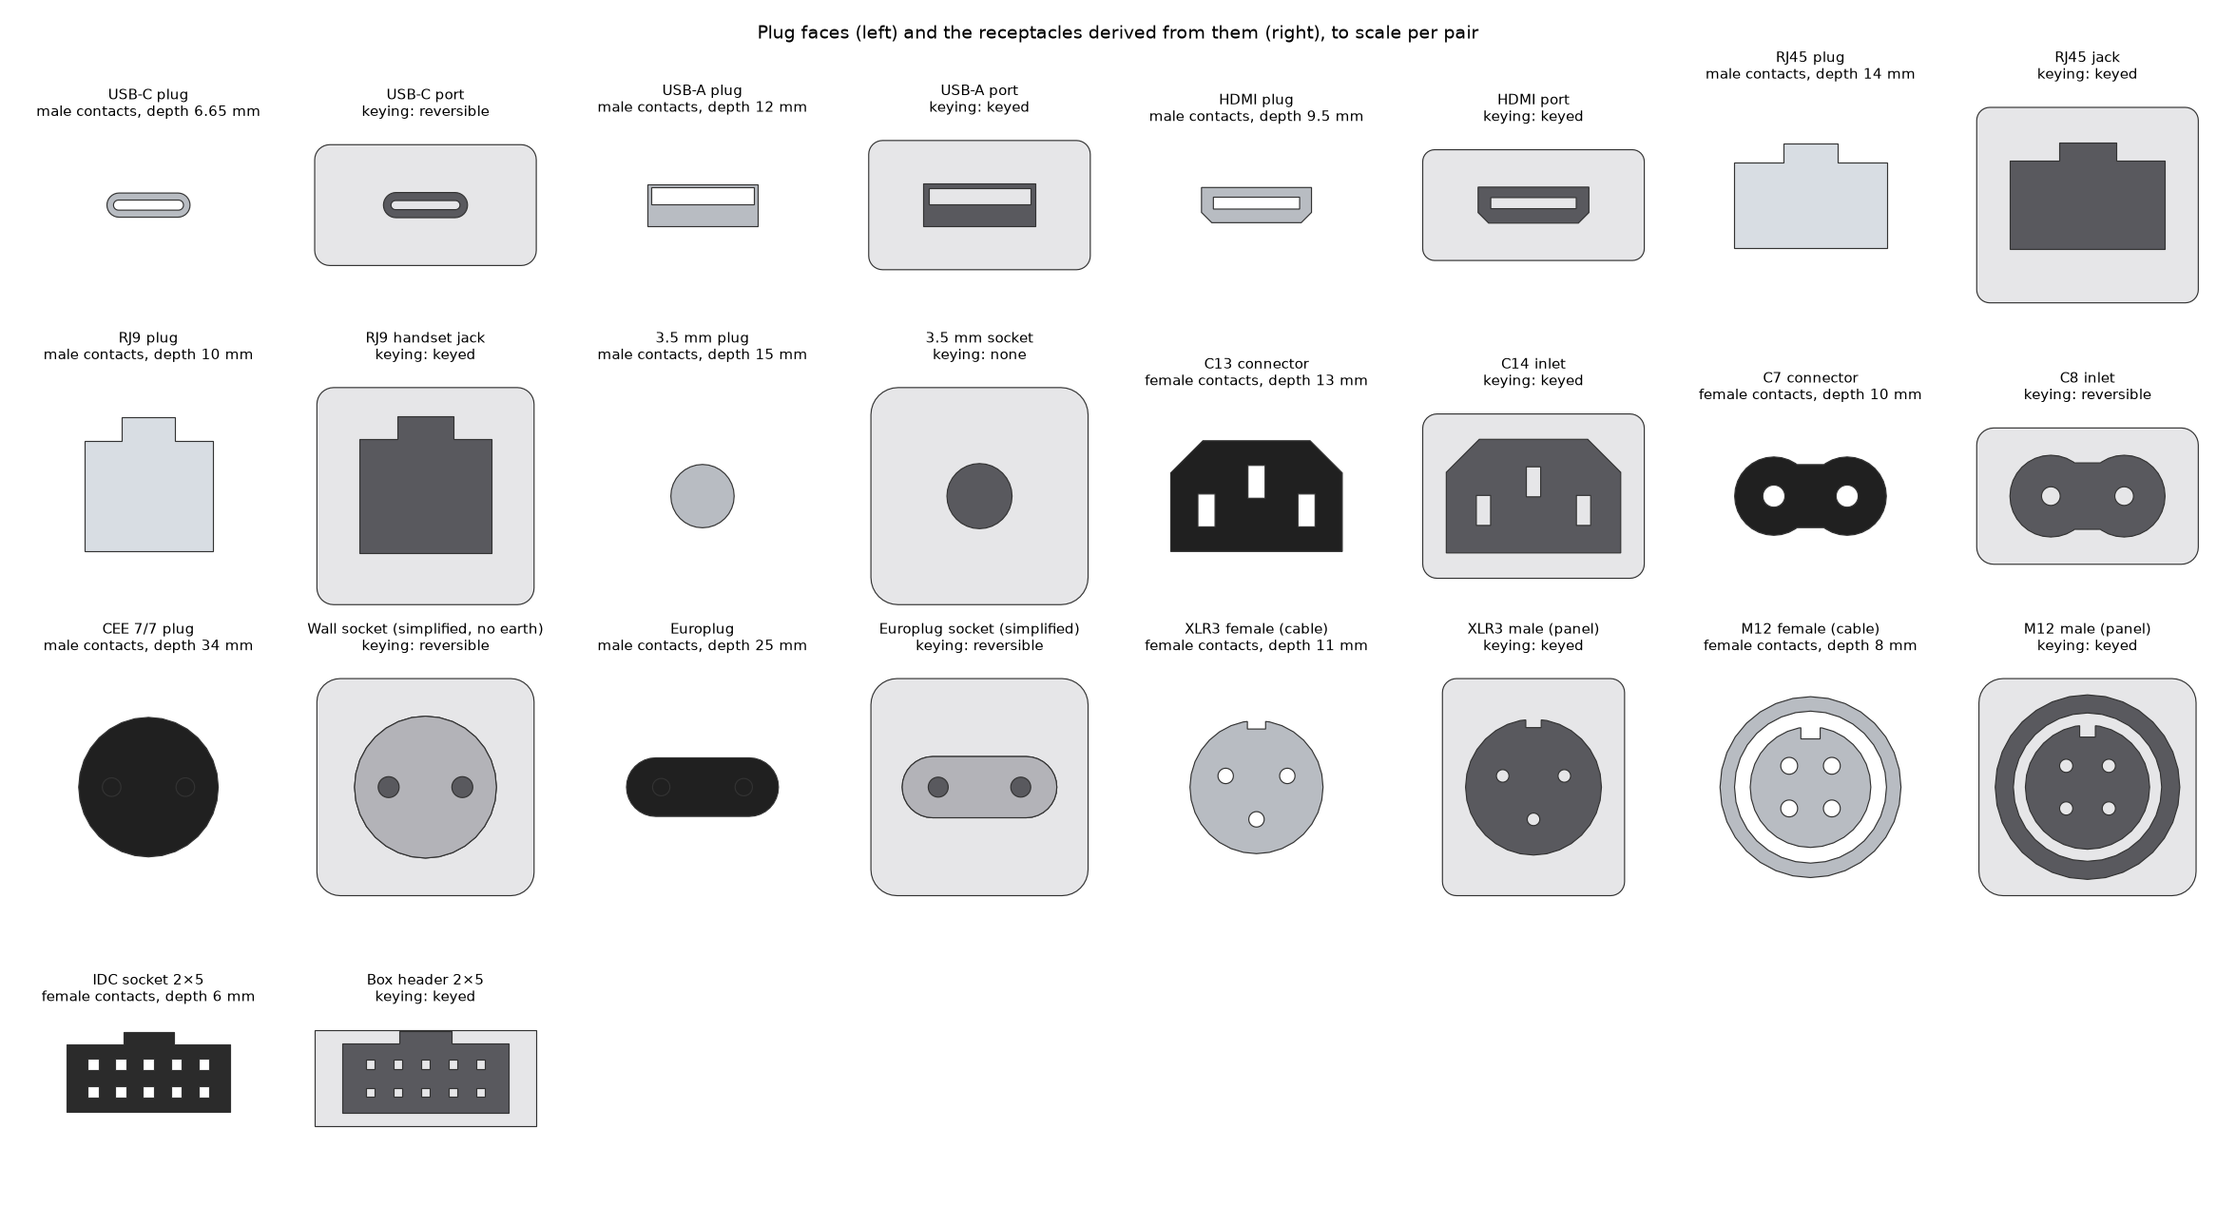
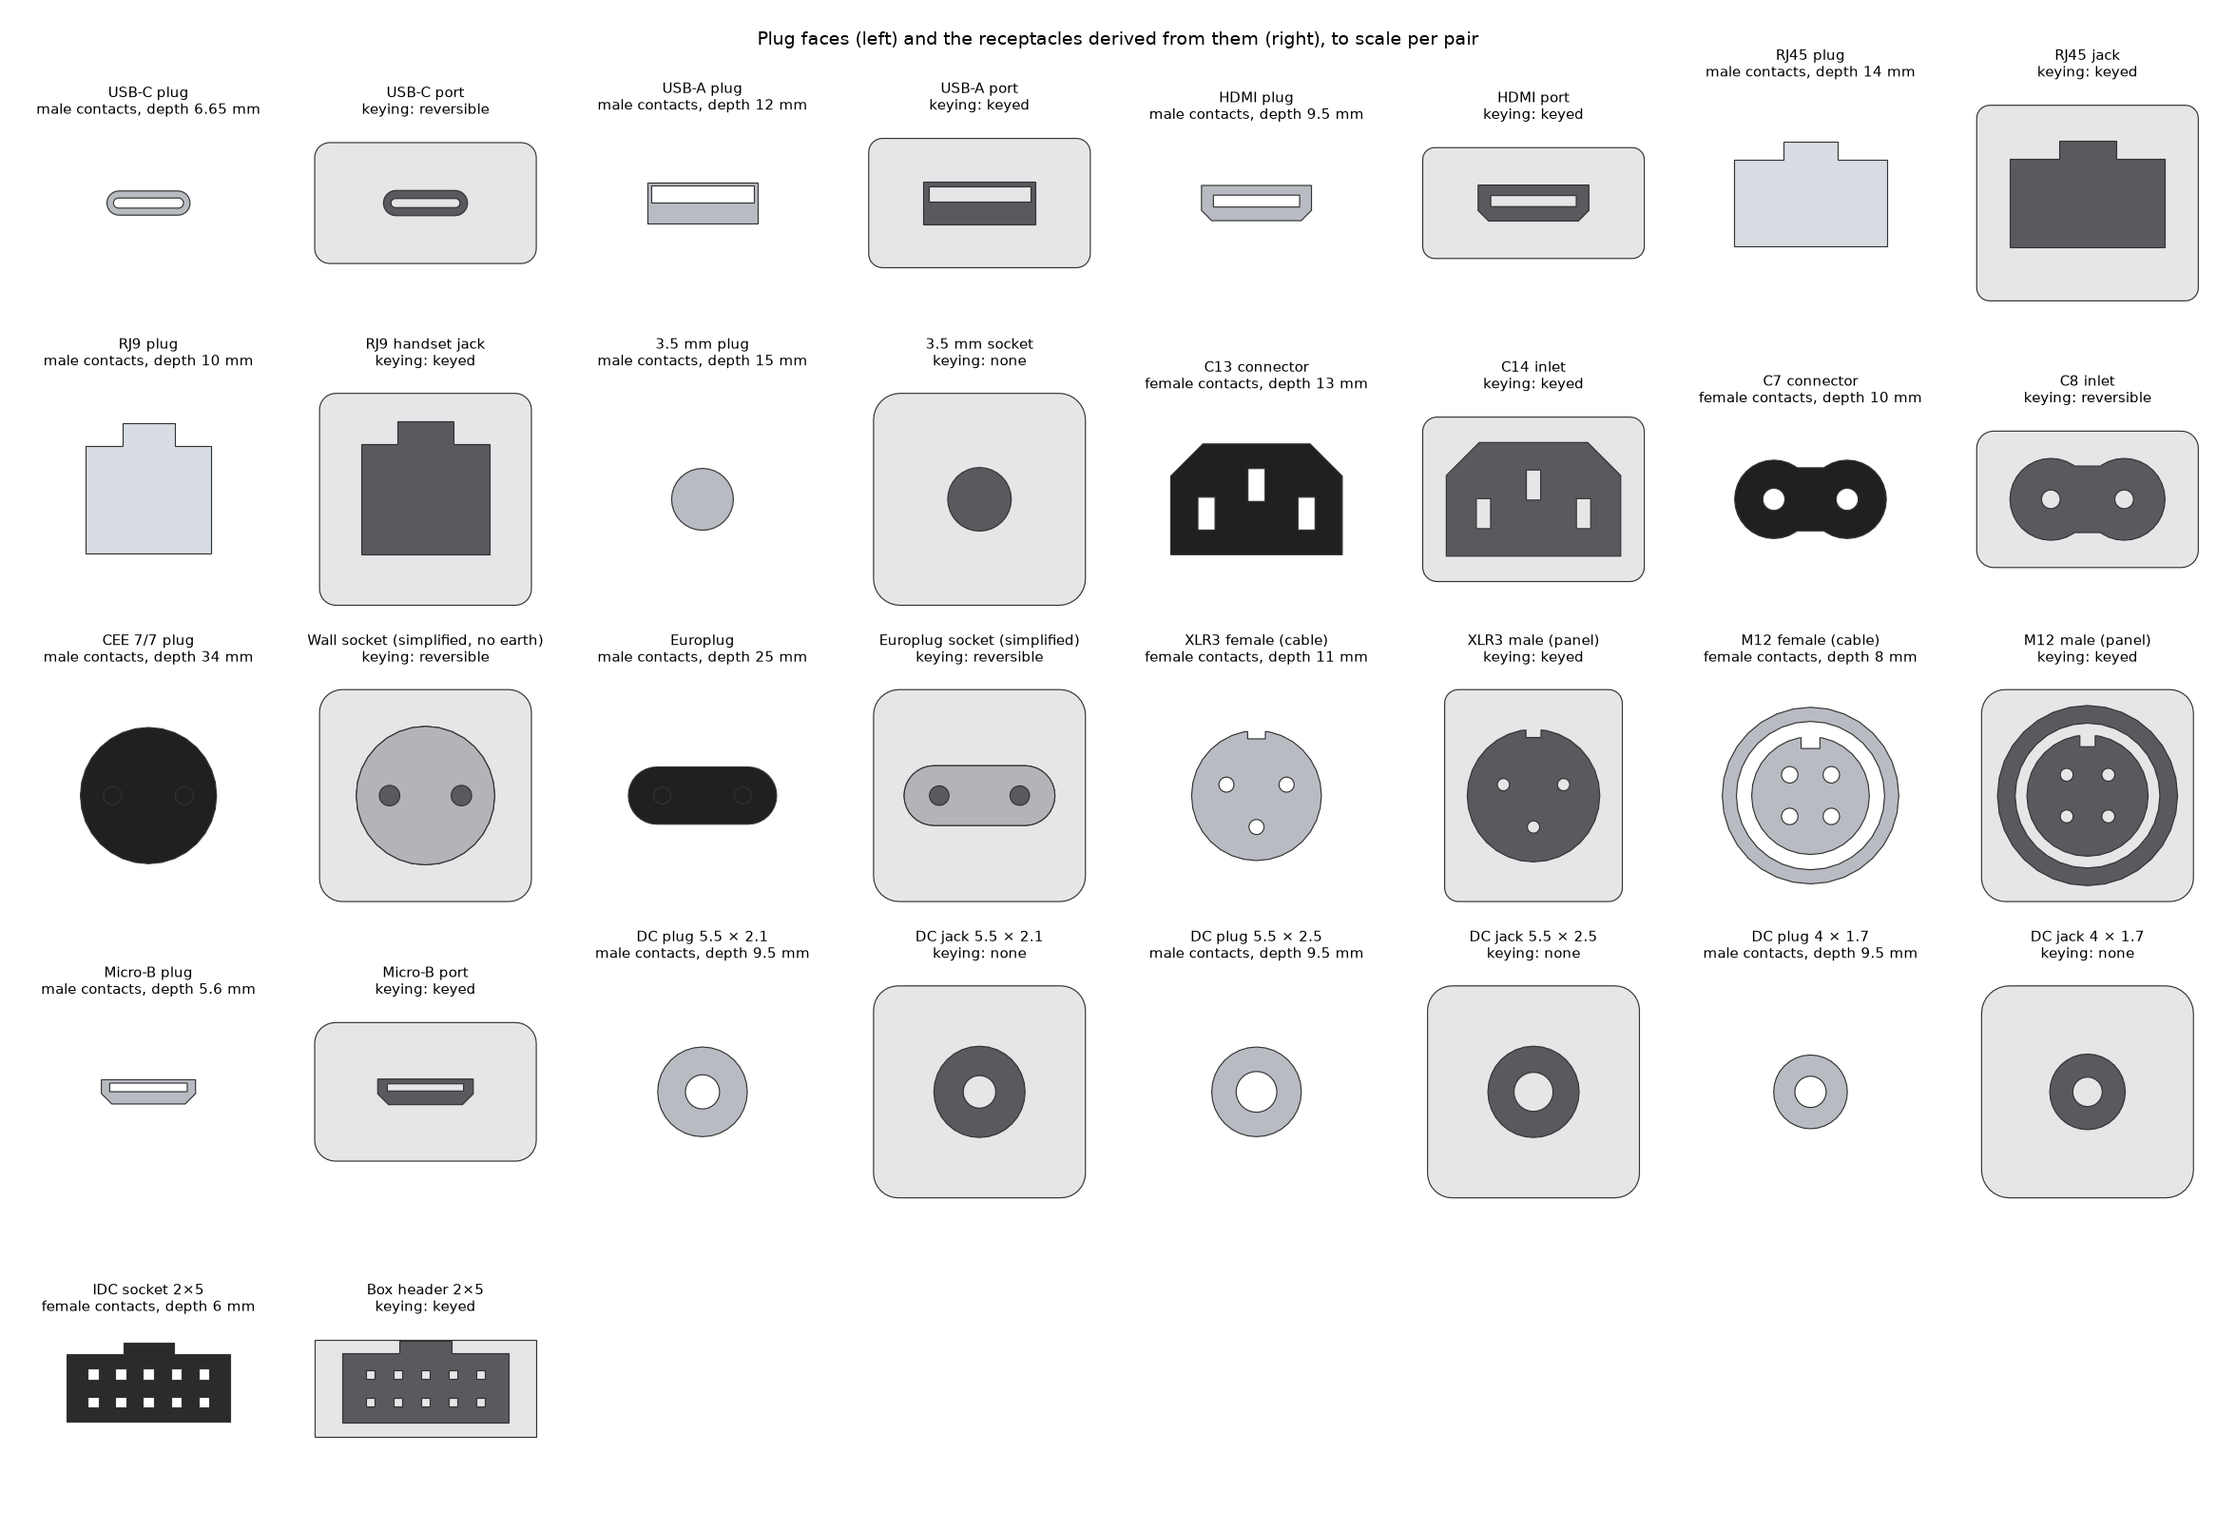
feat: DC barrel and USB Micro-B connectors
New connector families: USB Micro-B (keyed by its trapezoid shell) and
coaxial DC barrels 5.5 x 2.1, 5.5 x 2.5 and 4.0 x 1.7 mm, each with a
jack on a cable and a fixed jack derived from the plug (the centre pin
comes from the plug's bore). New presets dc_barrel and usb_micro.

fits() takes an optional socket of another family: a 5.5 x 2.5 plug
goes loosely onto a 5.5 x 2.1 jack, the reverse is stopped by the pin.

Claude-Session: https://claude.ai/code/session_011SKHgX3kzSwMGzHTuKSX34

diff --git a/src/filaire/connectors.py b/src/filaire/connectors.py
@@ -119,6 +119,38 @@ _M12_INSERT = _holes(
 _M12_NUT = g2.circle(15.0).difference(g2.circle(12.6))
 _IDC_HOLES = [g2.rect(1.0, 1.0, x, y) for x in (-5.08, -2.54, 0.0, 2.54, 5.08) for y in (-1.27, 1.27)]
 _IDC_SOCKET = _holes(g2.union(g2.rect(15.0, 6.2), g2.rect(4.6, 1.2, 0.0, 3.6)), *_IDC_HOLES)
+# Micro-B: trapezoid shell (chamfered lower corners), cavity for the receptacle's tongue near the top
+_MICRO_B_PLUG = g2.chamfered_rect(6.80, 1.75, bottom=0.75).difference(g2.rect(5.6, 0.62, 0.0, 0.32))
+
+
+def _barrel(key: str, od: float, bore: float, length: float, sizes_source: str, length_source: str):
+    """A coaxial DC plug: a sleeve of outer diameter od around a bore of diameter bore.
+
+    The derived jack gets its centre pin from the bore (bore minus twice the clearance), so a
+    plug with a smaller bore cannot go onto a thicker pin, while a larger bore fits loosely, as
+    on real 5.5 × 2.1 and 5.5 × 2.5 mm connectors.
+    """
+    return ConnectorSpec(
+        key=key,
+        label=f"DC barrel {od:g} × {bore:g} mm",
+        standard="IEC 60130-10" if od == 5.5 else "EIAJ RC-5320A",
+        gender="male",
+        keying="none",
+        layers=[Layer(0.0, length, g2.circle(od).difference(g2.circle(bore)))],
+        body=[(6.0, g2.circle(od + 2.5)), (16.0, g2.circle(od + 4.5))],
+        inline=(26.0, g2.circle(od + 5.5)),
+        panel=(4.0, g2.rrect(od + 7.5, od + 7.5, 1.5)),
+        clearance=0.05,
+        plug_name=f"DC plug {od:g} × {bore:g}",
+        inline_name=f"DC jack {od:g} × {bore:g} (extension)",
+        panel_name=f"DC jack {od:g} × {bore:g}",
+        shell=_METAL,
+        approximate=([] if length_source else [f"plug length {length:g}"]) + ["overmold and jack body"],
+        sources=[f"{od:g} × {bore:g} mm: {sizes_source}"] + ([length_source] if length_source else []),
+    )
+
+
+_BARREL_SOURCE = "https://en.wikipedia.org/wiki/Coaxial_power_connector"
 
 CONNECTORS: dict[str, ConnectorSpec] = {
     "usb_c": ConnectorSpec(
@@ -349,6 +381,37 @@ CONNECTORS: dict[str, ConnectorSpec] = {
         approximate=["insert Ø10", "key 1.6", "pins on Ø5", "nut Ø15 / bore Ø12.6"],
         sources=["thread M12 × 1 (IEC 61076-2-101, not consulted)"],
     ),
+    "usb_micro": ConnectorSpec(
+        key="usb_micro",
+        label="USB Micro-B",
+        standard="USB 2.0 Specification (Micro-B)",
+        gender="male",
+        keying="keyed",
+        layers=[Layer(0.0, 5.6, _MICRO_B_PLUG)],
+        body=[(16.0, g2.rrect(10.5, 6.5, 2.0))],
+        inline=None,
+        panel=(3.0, g2.rrect(16.0, 10.0, 1.5)),
+        clearance=0.05,
+        plug_name="Micro-B plug",
+        panel_name="Micro-B port",
+        shell=_METAL,
+        approximate=[
+            "plug 6.80 × 1.75 with 0.75 chamfers",
+            "tongue cavity 5.6 × 0.62",
+            "insertion depth 5.6",
+        ],
+        sources=["receptacle opening 6.85 × 1.8: https://www.accesscomms.com.au/usb-connector-dimensions/"],
+    ),
+    "dc5521": _barrel("dc5521", 5.5, 2.1, 9.5, f"IEC 60130-10 Type A, {_BARREL_SOURCE}", ""),
+    "dc5525": _barrel("dc5525", 5.5, 2.5, 9.5, f"IEC 60130-10 Type A, {_BARREL_SOURCE}", ""),
+    "dc4017": _barrel(
+        "dc4017",
+        4.0,
+        1.7,
+        9.5,
+        f"EIAJ-02, {_BARREL_SOURCE}",
+        f"barrel length 9.5 (EIAJ-02): {_BARREL_SOURCE}",
+    ),
     "idc10": ConnectorSpec(
         key="idc10",
         label="IDC 2 × 5, 2.54 mm",
@@ -445,18 +508,27 @@ def mass_of(parts: list[Part], density: float) -> dict:
     return mass_properties(part_mesh(parts), density)
 
 
-def fits(spec: ConnectorSpec, angle_deg: float, mount: str = "panel", tol: float = 1e-9) -> bool:
+def fits(
+    spec: ConnectorSpec,
+    angle_deg: float,
+    mount: str = "panel",
+    tol: float = 1e-9,
+    socket: ConnectorSpec | None = None,
+) -> bool:
     """Does the plug, turned by angle about the insertion axis, enter the receptacle fully?
 
     Plane test, layer by layer: the turned plug cross-section must not overlap
-    the receptacle's solid at any depth it goes through.
+    the receptacle's solid at any depth it goes through. `socket` tests the plug
+    of `spec` against the receptacle of another family (a 5.5 × 2.5 plug in a
+    5.5 × 2.1 jack); by default the receptacle is the plug's own.
     """
-    outline = spec.panel[1] if mount == "panel" else spec.inline[1]
-    solids = [outline.difference(_cavity(other.region, spec.clearance)) for other in spec.layers]
+    socket = socket or spec
+    outline = socket.panel[1] if mount == "panel" else socket.inline[1]
+    solids = [outline.difference(_cavity(other.region, socket.clearance)) for other in socket.layers]
     for layer in spec.layers:
         turned = g2.rotate(layer.region, angle_deg)
         # every receptacle layer the turned plug layer passes through on its way in
-        for other, solid in zip(spec.layers, solids, strict=True):
+        for other, solid in zip(socket.layers, solids, strict=True):
             if other.t1 <= layer.t0 + 1e-12:
                 continue
             if turned.intersection(solid).area > tol:

diff --git a/src/filaire/catalog.py b/src/filaire/catalog.py
@@ -81,6 +81,24 @@ PRESETS = {
         "layouts": {"slack": 0.7, "coil": 0.15, "straight": 0.15},
         "ends": {"a": {"c7_plug": 1.0}, "b": {"cee716_plug": 0.85, "stripped": 0.15}},
     },
+    "dc_barrel": {
+        "category": "Power",
+        "label": "DC power cord, coaxial barrel plug",
+        "profile": ("figure8", 2.4),
+        "conductors": ["#c0392b", "#1c1c1c"],
+        "jacket": "pvc",
+        "colors": _BLACKS + ["#f0f0ee"],
+        "lengths": {1.0: 0.3, 1.5: 0.4, 1.8: 0.3},
+        "tolerance": 0.01,
+        "youngs_modulus": (50.0, 100.0),
+        "linear_density": (18.0, 28.0),
+        "layouts": {"slack": 0.6, "coil": 0.25, "straight": 0.15},
+        # the adapter side (power brick) is not modelled: a stripped or cut end, or an extension jack
+        "ends": {
+            "a": {"dc5521_plug": 0.5, "dc5525_plug": 0.3, "dc4017_plug": 0.2},
+            "b": {"stripped": 0.5, "cut": 0.2, "dc5521_inline": 0.3},
+        },
+    },
     # -------------------------------------------------------------- Data
     "usb_c": {
         "category": "Data",
@@ -95,6 +113,20 @@ PRESETS = {
         "linear_density": (30.0, 45.0),
         "layouts": {"slack": 0.6, "coil": 0.2, "straight": 0.2},
         "ends": {"a": {"usb_c_plug": 1.0}, "b": {"usb_c_plug": 0.8, "usb_c_inline": 0.2}},
+    },
+    "usb_micro": {
+        "category": "Data",
+        "label": "USB-A to Micro-B",
+        "profile": ("round", 3.5),
+        "conductors": ["#c0392b", "#1c1c1c", "#2e8b3a", "#f2f2f2"],
+        "jacket": "pvc",
+        "colors": _BLACKS + ["#f0f0ee"],
+        "lengths": {0.5: 0.3, 1.0: 0.5, 2.0: 0.2},
+        "tolerance": 0.01,
+        "youngs_modulus": (40.0, 90.0),
+        "linear_density": (20.0, 35.0),
+        "layouts": {"slack": 0.6, "coil": 0.2, "straight": 0.2},
+        "ends": {"a": {"usb_a_plug": 1.0}, "b": {"usb_micro_plug": 1.0}},
     },
     "usb_a_to_c": {
         "category": "Data",

diff --git a/tests/test_connectors.py b/tests/test_connectors.py
@@ -42,3 +42,23 @@ def test_female_contacts_and_roles():
     assert CONNECTORS["c13"].gender == "female"
     assert CONNECTORS["usb_c"].gender == "male"
     assert CONNECTORS["xlr3"].inline is not None  # the male XLR on a cable
+
+
+def test_barrel_plugs_only_fit_compatible_jacks():
+    from filaire.connectors import fits
+
+    c = CONNECTORS
+    assert fits(c["dc5521"], 0) and fits(c["dc5525"], 0)
+    # a 2.5 mm bore goes loosely over the 2.1 jack's pin, as on real connectors...
+    assert fits(c["dc5525"], 0, socket=c["dc5521"])
+    # ...but a 2.1 mm bore cannot go over the 2.5 jack's thicker pin
+    assert not fits(c["dc5521"], 0, socket=c["dc5525"])
+    assert not fits(c["dc4017"], 0, socket=c["dc5521"])
+    assert not fits(c["dc5521"], 0, socket=c["dc4017"])
+
+
+def test_micro_b_is_keyed_by_its_trapezoid():
+    from filaire.connectors import fits
+
+    spec = CONNECTORS["usb_micro"]
+    assert fits(spec, 0) and not fits(spec, 180)

diff --git a/README.md b/README.md
@@ -15,7 +15,7 @@
 
 Filaire generates cables of standard types (power cords, USB, Ethernet,
 HDMI, audio, microphone, speaker wire, sensor, ribbon and coiled handset
-cords) with their real connectors, **male and female**, or with cut or
+cords, DC barrel and Micro-USB) with their real connectors, **male and female**, or with cut or
 stripped ends, and exports them to **OpenUSD** as physics-ready assets: a
 chain of rigid segments with `UsdPhysics` joints whose springs come from
 the cable's bending and torsional stiffness. Every connector comes with the
@@ -47,7 +47,7 @@ files into Blender and rendered with Cycles.*
   slack random curve or coiled on the floor.
 - Puts on **each end, independently**, a connector plug, a receptacle on a
   cable (the female end of an extension or a coupler), a clean cut or a
-  stripped end with the cores out: 13 connector families, 21 end variants,
+  stripped end with the cores out: 17 connector families, 28 end variants,
   any of them on any cable.
 - Models the cable as a **Kirchhoff rod**: rigid segments of 1.5 cable
   widths, joints with twist and bending springs `G·J / L` and `E·I / L`
@@ -131,8 +131,10 @@ other ends…).
 |---|---|---|---|---|
 | Power | `power_c13` | round Ø6.4 mm, 3 cores | C13 | CEE 7/7 plug, C14 (extension), stripped |
 | | `power_c7` | figure-8, 2 × Ø3.4 mm | C7 | Europlug, stripped |
+| | `dc_barrel` | figure-8, 2 × Ø2.4 mm | DC plug 5.5 × 2.1, 5.5 × 2.5 or 4.0 × 1.7 | stripped, cut, DC jack (extension) |
 | Data | `usb_c` | round Ø4.0 mm | USB-C plug | USB-C plug, USB-C receptacle (extension) |
 | | `usb_a_to_c` | round Ø3.8 mm | USB-A plug | USB-C plug |
+| | `usb_micro` | round Ø3.5 mm | USB-A plug | Micro-B plug |
 | | `ethernet` | round Ø6.0 mm, 4 pairs | RJ45 plug | RJ45 plug, RJ45 coupler |
 | | `hdmi` | round Ø7.0 mm | HDMI plug | HDMI plug, HDMI receptacle (extension) |
 | Audio | `audio_jack` | round Ø3.5 mm | 3.5 mm plug | 3.5 mm plug, 3.5 mm socket (extension) |
@@ -158,6 +160,7 @@ fixed receptacles derived from them (`sockets.usdc`), rendered in Blender.*
 |---|---|---|---|---|---|---|
 | `usb_c` | USB-C plug | male | USB-C receptacle | USB-C port | reversible | 6.65 mm |
 | `usb_a` | USB-A plug | male | | USB-A port | keyed | 12 mm |
+| `usb_micro` | Micro-B plug | male | | Micro-B port | keyed | 5.6 mm |
 | `hdmi_a` | HDMI plug | male | HDMI receptacle | HDMI port | keyed | 9.5 mm |
 | `rj45` | RJ45 plug | male | RJ45 coupler | RJ45 jack | keyed | 14 mm |
 | `rj9` | RJ9 plug | male | | RJ9 handset jack | keyed | 10 mm |
@@ -169,6 +172,7 @@ fixed receptacles derived from them (`sockets.usdc`), rendered in Blender.*
 | `xlr3` | XLR3 female | **female** | XLR3 male | XLR3 male (panel) | keyed | 11 mm |
 | `m12a` | M12 A-coded female | **female** | | M12 male (panel) | keyed | 8 mm |
 | `idc10` | IDC socket 2 × 5 | **female** | | box header 2 × 5 | keyed | 6 mm |
+| `dc5521`, `dc5525`, `dc4017` | DC plug 5.5 × 2.1, 5.5 × 2.5, 4.0 × 1.7 mm | male | DC jack | DC jack | none | 9.5 mm |
 
 **Gender and role are kept apart.** *Gender* is the contact gender of the
 standard; *role* is geometric: the plug enters, the receptacle receives. An
@@ -184,6 +188,12 @@ or tongue, the plug's key becomes the keyway, and the two always mate. The
 keying is then *found* by turning the plug in 15° steps and testing for
 overlap, and a test checks it against the standard's.
 
+The same test answers which plug goes into which receptacle across families
+(`fits(plug, angle, socket=other)`). For the DC barrels it gives the real
+behaviour: the derived jacks get a centre pin from the plug's bore, so a
+5.5 × 2.5 mm plug goes loosely onto a 5.5 × 2.1 mm jack, while a 5.5 × 2.1 mm
+plug is stopped by the thicker pin of a 5.5 × 2.5 mm jack.
+
 ![Plug faces and the receptacles derived from them](docs/images/connectors.png)
 
 *`filaire connectors`: the plug seen from its tip (left) and the fixed
@@ -193,8 +203,9 @@ light grey.*
 Dimensions come from published figures where they could be found (USB-C
 receptacle opening and insertion length, HDMI plug and receptacle, RJ45 and
 RJ9 widths and heights, 3.5 mm diameter and length, CEE 7 pins and recess
-depth, IEC 60320 pin spacing); the others (XLR, M12, IDC, C13 face, inner
-cavities, overmolds) are **approximate** and marked so in
+depth, IEC 60320 pin spacing, Micro-B receptacle opening, DC barrel diameters
+and the 4.0 × 1.7 mm barrel length); the others (XLR, M12, IDC, C13 face,
+Micro-B chamfers, 5.5 mm barrel length, inner cavities, overmolds) are **approximate** and marked so in
 [`connectors.py`](src/filaire/connectors.py), each with its sources. The
 standards themselves were not consulted. Connectors are simplified: no
 latches that move, no threads, no contacts inside the holes, no logos.
@@ -312,8 +323,10 @@ to rest. Simulated in MuJoCo from the OpenUSD files (rest shape straight,
 |---|---|---|---|---|---|---|
 | `power_c13` | 104 | 0.0049–0.0073 | 119–187 | 3/3 (0.004 m/s, 0.10 mm) | sag −0.8 % | C13 panel + inline, CEE 7/7 ✓ |
 | `power_c7` | 98 | 0.00066–0.00098 | 49–67 | 3/3 (0.002 m/s, 0.06 mm) | sag −0.8 % | C7, Europlug ✓ |
+| `dc_barrel` | 139 | 0.00016–0.00026 | 30–33 | 3/3 (0.012 m/s, 0.09 mm) | sag −0.8 % | three DC jacks ✓ |
 | `usb_c` | 167 | 0.00050–0.00080 | 46–50 | 3/3 (0.013 m/s, 0.18 mm) | sag −0.8 % | USB-C panel + inline ✓ |
 | `usb_a_to_c` | 175 | 0.00041–0.00065 | 43–46 | 3/3 (0.004 m/s, 0.18 mm) | sag −0.8 % | USB-A, USB-C ✓ |
+| `usb_micro` | 190 | 0.00029–0.00051 | 38–40 | 3/3 (0.004 m/s, 0.10 mm) | sag −0.8 % | USB-A, Micro-B ✓ |
 | `ethernet` | 111 | 0.0050–0.0072 | 61–70 | 3/3 (0.005 m/s, 0.07 mm) | sag −0.8 % | RJ45 panel + inline ✓ |
 | `hdmi` | 95 | 0.0094–0.0139 | 99–107 | 3/3 (0.005 m/s, 0.09 mm) | sag −0.8 % | HDMI panel + inline ✓ |
 | `audio_jack` | 190 | 0.00022–0.00036 | 20–22 | 3/3 (0.003 m/s, 0.13 mm) | sag −0.8 % | 3.5 mm panel + inline ✓ |
@@ -326,7 +339,7 @@ to rest. Simulated in MuJoCo from the OpenUSD files (rest shape straight,
 Every keyed connector was stopped at 90° and 180° (at most 12 % of its
 depth, the IDC socket's flat face entering a little before its key meets the
 header), every reversible one went in at 180°, the 3.5 mm jack at every
-angle. The sag is 0.8 % under the linear beam formula for every cable: the
+angle, like the DC barrels. The sag is 0.8 % under the linear beam formula for every cable: the
 geometric nonlinearity of a 10 % deflection, the same for all since the
 sample length is scaled to the stiffness. Generation takes 1–4 s per
 preset (3 cables), the checks 15–30 s (a minute for the coiled cords).

diff --git a/CHANGELOG.md b/CHANGELOG.md
@@ -6,6 +6,17 @@ and the project uses [Semantic Versioning](https://semver.org/).
 
 ## [Unreleased]
 
+### Added
+- Connector families: USB Micro-B (`usb_micro`, keyed by its trapezoid) and
+  coaxial DC barrels 5.5 × 2.1, 5.5 × 2.5 and 4.0 × 1.7 mm (`dc5521`,
+  `dc5525`, `dc4017`), each with a jack on a cable and a fixed jack: 17
+  families, 28 end variants.
+- Presets `dc_barrel` (DC power cord, figure-8) and `usb_micro` (USB-A to
+  Micro-B): 14 presets.
+- `fits(plug, angle, socket=other)` tests a plug against another family's
+  receptacle: a 5.5 × 2.5 mm plug goes loosely onto a 5.5 × 2.1 mm jack, the
+  reverse is stopped by the thicker pin.
+
 ## [0.1.0b1] - 2026-10-24 (beta)
 
 First beta.
